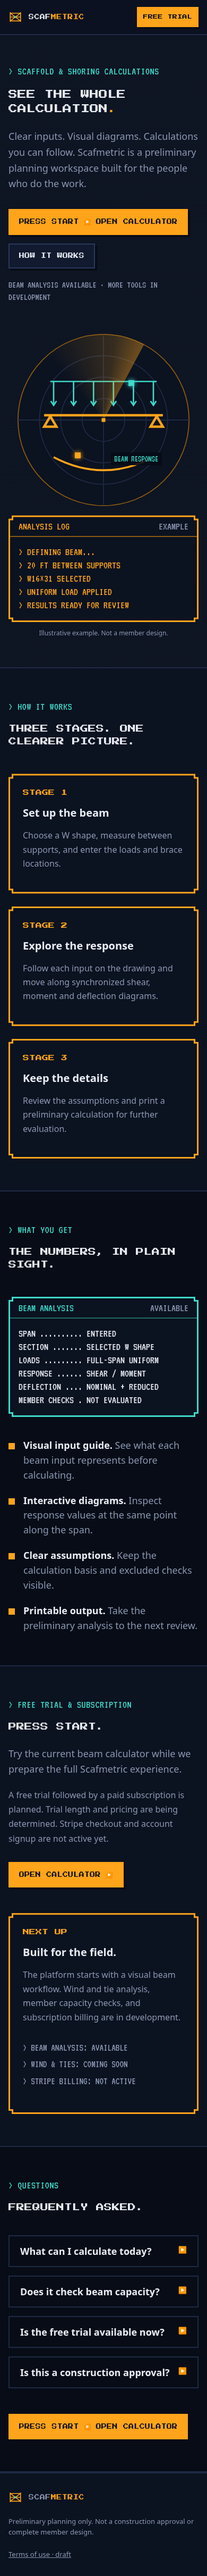
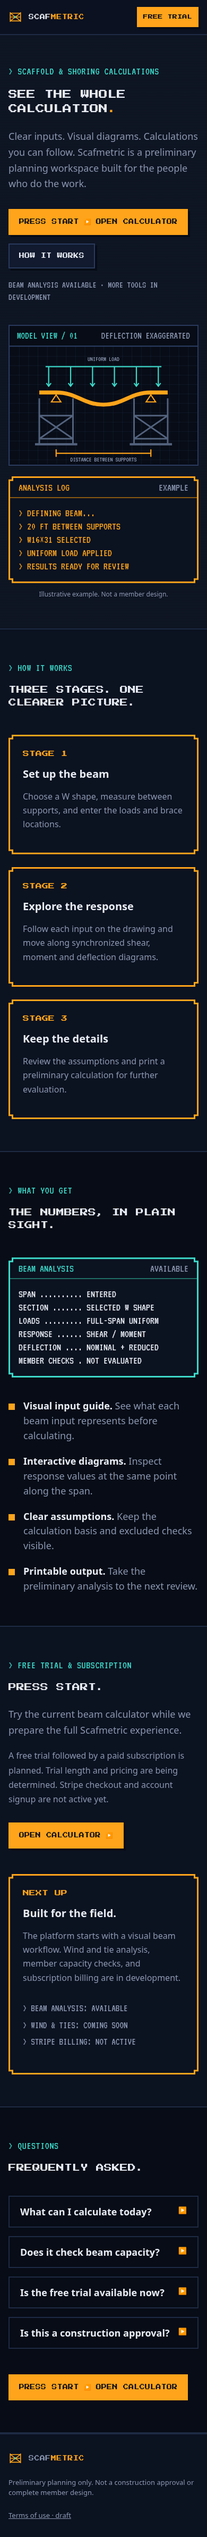
Replace radar hero with bending beam illustration

diff --git a/landing.css b/landing.css
@@ -1,3 +1,2 @@
 @font-face{font-family:PressStart;src:url('/public/fonts/press-start-2p.woff2') format('woff2');font-weight:400;font-display:swap}@font-face{font-family:VT323;src:url('/public/fonts/vt323.woff2') format('woff2');font-weight:400;font-display:swap}
-:root{color-scheme:dark;--bg:#0B1220;--deep:#070C16;--panel:#111A2E;--border:#1E2A44;--edge:#2A3A5E;--orange:#FFA41B;--aqua:#3DD9C9;--text:#E8ECF4;--muted:#8A96B0}*{box-sizing:border-box}html{scroll-behavior:smooth}body{margin:0;background:var(--bg);color:var(--text);font-family:Inter,system-ui,sans-serif;-webkit-font-smoothing:antialiased}a{color:inherit}::selection{background:var(--orange);color:var(--deep)}:focus-visible{outline:2px solid var(--aqua);outline-offset:4px}.container{max-width:1200px;padding:0 16px;margin:0 auto}.site-header{position:sticky;top:0;z-index:10;border-bottom:2px solid var(--border);background:rgba(11,18,32,.96);backdrop-filter:blur(8px)}.header-inner{height:64px;display:flex;align-items:center;justify-content:space-between;gap:16px}.logo{display:inline-flex;align-items:center;gap:12px;text-decoration:none;white-space:nowrap;font:11px/1.4 PressStart,monospace;letter-spacing:.05em}.logo svg{width:28px;height:28px}.logo span span,.accent{color:var(--orange)}nav{display:flex;gap:32px}nav a{font:20px/1 VT323,monospace;text-transform:uppercase;color:var(--muted);text-decoration:none}nav a:hover{color:var(--text)}.button{display:inline-flex;align-items:center;justify-content:center;gap:9px;padding:16px 20px;font:10px/1.5 PressStart,monospace;text-transform:uppercase;letter-spacing:.025em;text-decoration:none;box-shadow:4px 4px 0 var(--deep);transition:transform .15s,background-color .15s}.button:hover{transform:translateY(-2px)}.primary{background:var(--orange);color:var(--deep)}.primary:hover{background:#FFC266}.secondary{background:var(--panel);color:var(--text);box-shadow:inset 0 0 0 2px var(--edge),4px 4px 0 var(--deep)}.header-button{padding:12px 16px;font-size:10px}.arrow{font-family:Arial,sans-serif;font-size:11px}.hero,.section{border-bottom:2px solid var(--border)}.scanlines{background-image:repeating-linear-gradient(to bottom,rgba(255,255,255,.035) 0,rgba(255,255,255,.035) 1px,transparent 1px,transparent 3px)}.hero-grid{display:grid;grid-template-columns:1.05fr .95fr;align-items:center;gap:48px;padding-top:80px;padding-bottom:80px}.eyebrow{font:20px/1.2 VT323,monospace;color:var(--aqua);text-transform:uppercase;letter-spacing:.03em;margin:0 0 18px}h1,h2{font-family:PressStart,monospace;font-weight:400;line-height:1.6;margin:0}h1{font-size:clamp(17px,2.7vw,34px)}h2{font-size:clamp(15px,2.2vw,23px);max-width:850px}h3{font-size:20px;line-height:1.3;margin:16px 0 12px}.lead{font-size:18px;line-height:1.65;color:var(--muted);max-width:575px;margin:24px 0 0}.actions{display:flex;flex-wrap:wrap;gap:16px;margin-top:32px}.hero-note{font:20px/1.3 VT323,monospace;color:var(--muted);margin:20px 0 0}.hero-visual{width:100%;max-width:460px;margin:auto}.scope{position:relative;aspect-ratio:1;width:100%}.scope>svg{position:absolute;inset:0;width:100%;height:100%}.scope-sweep{position:absolute;inset:5%;border-radius:50%;background:conic-gradient(from 0deg,transparent 0deg,transparent 290deg,rgba(255,164,27,.18) 340deg,rgba(255,164,27,.4) 360deg);animation:spin 7s linear infinite;pointer-events:none}.scope-label{position:absolute;top:67%;left:54%;padding:4px 6px;background:rgba(7,12,22,.9);font:16px/1 VT323,monospace;color:var(--aqua)}.blip{position:absolute;width:11px;height:11px;background:var(--aqua);box-shadow:0 0 8px var(--aqua)}.b1{left:63%;top:29%}.b2{left:35%;top:67%;background:var(--orange);box-shadow:0 0 8px var(--orange)}@keyframes spin{to{transform:rotate(360deg)}}.frame{background:var(--orange);padding:3px;clip-path:polygon(0 6px,6px 6px,6px 0,calc(100% - 6px) 0,calc(100% - 6px) 6px,100% 6px,100% calc(100% - 6px),calc(100% - 6px) calc(100% - 6px),calc(100% - 6px) 100%,6px 100%,6px calc(100% - 6px),0 calc(100% - 6px))}.frame-inner{height:100%;background:var(--bg);clip-path:polygon(0 6px,6px 6px,6px 0,calc(100% - 6px) 0,calc(100% - 6px) 6px,100% 6px,100% calc(100% - 6px),calc(100% - 6px) calc(100% - 6px),calc(100% - 6px) 100%,6px 100%,6px calc(100% - 6px),0 calc(100% - 6px))}.frame-title{display:flex;justify-content:space-between;gap:12px;border-bottom:2px solid #8a5a12;color:var(--orange);padding:8px 16px;font:20px/1 VT323,monospace;text-transform:uppercase}.frame-title span:last-child{color:var(--muted)}.terminal{font:22px/1.25 VT323,monospace;color:var(--orange);padding:16px}.terminal.white{color:var(--text)}.terminal.small{font-size:19px;padding:10px 0 0}.cursor{animation:blink 1s steps(1,end) infinite}@keyframes blink{50%{opacity:0}}.caption{text-align:center;color:var(--muted);font-size:12px;margin:12px 0 0}.section{padding:96px 0;scroll-margin-top:64px}.alt{background:var(--deep)}.three-grid{display:grid;grid-template-columns:repeat(3,1fr);gap:24px;margin-top:48px}.card{padding:24px}.card p:not(.stage){color:var(--muted);line-height:1.65}.stage{font:12px/1.5 PressStart,monospace;color:var(--orange);margin:0}.tool-grid{display:grid;grid-template-columns:1fr 1fr;gap:40px;margin-top:48px}.cyan{background:var(--aqua)}.cyan-text{color:var(--aqua);border-color:#1F6E66}.benefits{list-style:none;padding:0;margin:0;display:grid;gap:20px}.benefits li{font-size:18px;color:var(--muted);line-height:1.55;padding-left:28px;position:relative}.benefits li:before{content:'';position:absolute;left:0;top:9px;width:12px;height:12px;background:var(--orange)}.benefits strong{color:var(--text)}.trial-grid{display:grid;grid-template-columns:.9fr 1.1fr;gap:48px;align-items:start}.muted{color:var(--muted);line-height:1.7;margin:20px 0 30px}.faq{display:grid;gap:16px;max-width:768px;margin:40px 0 48px}details{background:var(--deep);border:2px solid var(--border)}details[open]{border-color:#1F6E66}summary{display:flex;justify-content:space-between;gap:16px;cursor:pointer;padding:16px 20px;font-size:18px;font-weight:600;list-style:none}summary::-webkit-details-marker{display:none}summary span{color:var(--orange);font-size:13px}details p{padding:0 20px 20px;color:var(--muted);line-height:1.6;margin:0}footer{border-top:2px solid var(--border);padding:32px 0;color:var(--muted);font-size:13px}.footer-inner{display:flex;align-items:center;justify-content:space-between;gap:25px}.footer-inner p{max-width:440px;line-height:1.5}footer a:not(.logo){color:var(--muted)}@media(max-width:900px){.hero-grid{grid-template-columns:1fr;gap:40px;padding-top:56px;padding-bottom:56px}.hero-visual{max-width:460px}.three-grid{grid-template-columns:1fr}.trial-grid{grid-template-columns:1fr}.section{padding:64px 0}}@media(max-width:700px){nav{display:none}.logo{font-size:10px}.logo svg{width:26px;height:26px}.header-button{font-size:9px;padding:12px}.tool-grid{grid-template-columns:1fr}.footer-inner{align-items:flex-start;flex-direction:column;gap:10px}.hero-note{font-size:18px}.terminal{font-size:20px}.section{padding:60px 0}}@media(prefers-reduced-motion:reduce){html{scroll-behavior:auto}.scope-sweep,.cursor{animation:none}}
-.scope{overflow:hidden}
+:root{color-scheme:dark;--bg:#0B1220;--deep:#070C16;--panel:#111A2E;--border:#1E2A44;--edge:#2A3A5E;--orange:#FFA41B;--aqua:#3DD9C9;--text:#E8ECF4;--muted:#8A96B0}*{box-sizing:border-box}html{scroll-behavior:smooth}body{margin:0;background:var(--bg);color:var(--text);font-family:Inter,system-ui,sans-serif;-webkit-font-smoothing:antialiased}a{color:inherit}::selection{background:var(--orange);color:var(--deep)}:focus-visible{outline:2px solid var(--aqua);outline-offset:4px}.container{max-width:1200px;padding:0 16px;margin:0 auto}.site-header{position:sticky;top:0;z-index:10;border-bottom:2px solid var(--border);background:rgba(11,18,32,.96);backdrop-filter:blur(8px)}.header-inner{height:64px;display:flex;align-items:center;justify-content:space-between;gap:16px}.logo{display:inline-flex;align-items:center;gap:12px;text-decoration:none;white-space:nowrap;font:11px/1.4 PressStart,monospace;letter-spacing:.05em}.logo svg{width:28px;height:28px}.logo span span,.accent{color:var(--orange)}nav{display:flex;gap:32px}nav a{font:20px/1 VT323,monospace;text-transform:uppercase;color:var(--muted);text-decoration:none}nav a:hover{color:var(--text)}.button{display:inline-flex;align-items:center;justify-content:center;gap:9px;padding:16px 20px;font:10px/1.5 PressStart,monospace;text-transform:uppercase;letter-spacing:.025em;text-decoration:none;box-shadow:4px 4px 0 var(--deep);transition:transform .15s,background-color .15s}.button:hover{transform:translateY(-2px)}.primary{background:var(--orange);color:var(--deep)}.primary:hover{background:#FFC266}.secondary{background:var(--panel);color:var(--text);box-shadow:inset 0 0 0 2px var(--edge),4px 4px 0 var(--deep)}.header-button{padding:12px 16px;font-size:10px}.arrow{font-family:Arial,sans-serif;font-size:11px}.hero,.section{border-bottom:2px solid var(--border)}.scanlines{background-image:repeating-linear-gradient(to bottom,rgba(255,255,255,.035) 0,rgba(255,255,255,.035) 1px,transparent 1px,transparent 3px)}.hero-grid{display:grid;grid-template-columns:1.05fr .95fr;align-items:center;gap:48px;padding-top:80px;padding-bottom:80px}.eyebrow{font:20px/1.2 VT323,monospace;color:var(--aqua);text-transform:uppercase;letter-spacing:.03em;margin:0 0 18px}h1,h2{font-family:PressStart,monospace;font-weight:400;line-height:1.6;margin:0}h1{font-size:clamp(17px,2.7vw,34px)}h2{font-size:clamp(15px,2.2vw,23px);max-width:850px}h3{font-size:20px;line-height:1.3;margin:16px 0 12px}.lead{font-size:18px;line-height:1.65;color:var(--muted);max-width:575px;margin:24px 0 0}.actions{display:flex;flex-wrap:wrap;gap:16px;margin-top:32px}.hero-note{font:20px/1.3 VT323,monospace;color:var(--muted);margin:20px 0 0}.hero-visual{width:100%;max-width:460px;margin:auto}.beam-illustration{border:2px solid var(--edge);background:var(--deep);margin-bottom:20px}.illustration-heading{display:flex;justify-content:space-between;gap:8px;border-bottom:2px solid var(--edge);padding:9px 14px;font:19px/1 VT323,monospace;color:var(--aqua)}.illustration-heading span:last-child{color:var(--muted)}.beam-illustration svg{display:block;width:100%;height:auto}.frame{background:var(--orange);padding:3px;clip-path:polygon(0 6px,6px 6px,6px 0,calc(100% - 6px) 0,calc(100% - 6px) 6px,100% 6px,100% calc(100% - 6px),calc(100% - 6px) calc(100% - 6px),calc(100% - 6px) 100%,6px 100%,6px calc(100% - 6px),0 calc(100% - 6px))}.frame-inner{height:100%;background:var(--bg);clip-path:polygon(0 6px,6px 6px,6px 0,calc(100% - 6px) 0,calc(100% - 6px) 6px,100% 6px,100% calc(100% - 6px),calc(100% - 6px) calc(100% - 6px),calc(100% - 6px) 100%,6px 100%,6px calc(100% - 6px),0 calc(100% - 6px))}.frame-title{display:flex;justify-content:space-between;gap:12px;border-bottom:2px solid #8a5a12;color:var(--orange);padding:8px 16px;font:20px/1 VT323,monospace;text-transform:uppercase}.frame-title span:last-child{color:var(--muted)}.terminal{font:22px/1.25 VT323,monospace;color:var(--orange);padding:16px}.terminal.white{color:var(--text)}.terminal.small{font-size:19px;padding:10px 0 0}.cursor{animation:blink 1s steps(1,end) infinite}@keyframes blink{50%{opacity:0}}.caption{text-align:center;color:var(--muted);font-size:12px;margin:12px 0 0}.section{padding:96px 0;scroll-margin-top:64px}.alt{background:var(--deep)}.three-grid{display:grid;grid-template-columns:repeat(3,1fr);gap:24px;margin-top:48px}.card{padding:24px}.card p:not(.stage){color:var(--muted);line-height:1.65}.stage{font:12px/1.5 PressStart,monospace;color:var(--orange);margin:0}.tool-grid{display:grid;grid-template-columns:1fr 1fr;gap:40px;margin-top:48px}.cyan{background:var(--aqua)}.cyan-text{color:var(--aqua);border-color:#1F6E66}.benefits{list-style:none;padding:0;margin:0;display:grid;gap:20px}.benefits li{font-size:18px;color:var(--muted);line-height:1.55;padding-left:28px;position:relative}.benefits li:before{content:'';position:absolute;left:0;top:9px;width:12px;height:12px;background:var(--orange)}.benefits strong{color:var(--text)}.trial-grid{display:grid;grid-template-columns:.9fr 1.1fr;gap:48px;align-items:start}.muted{color:var(--muted);line-height:1.7;margin:20px 0 30px}.faq{display:grid;gap:16px;max-width:768px;margin:40px 0 48px}details{background:var(--deep);border:2px solid var(--border)}details[open]{border-color:#1F6E66}summary{display:flex;justify-content:space-between;gap:16px;cursor:pointer;padding:16px 20px;font-size:18px;font-weight:600;list-style:none}summary::-webkit-details-marker{display:none}summary span{color:var(--orange);font-size:13px}details p{padding:0 20px 20px;color:var(--muted);line-height:1.6;margin:0}footer{border-top:2px solid var(--border);padding:32px 0;color:var(--muted);font-size:13px}.footer-inner{display:flex;align-items:center;justify-content:space-between;gap:25px}.footer-inner p{max-width:440px;line-height:1.5}footer a:not(.logo){color:var(--muted)}@media(max-width:900px){.hero-grid{grid-template-columns:1fr;gap:40px;padding-top:56px;padding-bottom:56px}.hero-visual{max-width:460px}.three-grid{grid-template-columns:1fr}.trial-grid{grid-template-columns:1fr}.section{padding:64px 0}}@media(max-width:700px){nav{display:none}.logo{font-size:10px}.logo svg{width:26px;height:26px}.header-button{font-size:9px;padding:12px}.tool-grid{grid-template-columns:1fr}.footer-inner{align-items:flex-start;flex-direction:column;gap:10px}.hero-note{font-size:18px}.terminal{font-size:20px}.section{padding:60px 0}}@media(prefers-reduced-motion:reduce){html{scroll-behavior:auto}.cursor{animation:none}}

diff --git a/index.html b/index.html
@@ -13,7 +13,16 @@
 <main>
 <section class="hero scanlines"><div class="container hero-grid">
 <div><p class="eyebrow">&gt; Scaffold &amp; shoring calculations</p><h1>SEE THE WHOLE<br>CALCULATION<span class="accent">.</span></h1><p class="lead">Clear inputs. Visual diagrams. Calculations you can follow. Scafmetric is a preliminary planning workspace built for the people who do the work.</p><div class="actions"><a class="button primary" href="calculator.html">Press start <span class="arrow">▶</span> open calculator</a><a class="button secondary" href="#how">How it works</a></div><p class="hero-note">BEAM ANALYSIS AVAILABLE · MORE TOOLS IN DEVELOPMENT</p></div>
-<div class="hero-visual"><div class="scope" aria-label="Illustrative beam and scaffold graphic, not to scale" role="img"><div class="scope-grid"></div><svg viewBox="0 0 400 400" aria-hidden="true"><circle cx="200" cy="200" r="180" fill="#0B1220" stroke="#8A5A12" stroke-width="2"/><circle cx="200" cy="200" r="135" fill="none" stroke="#1E2A44" stroke-width="2"/><circle cx="200" cy="200" r="90" fill="none" stroke="#1E2A44" stroke-width="2"/><circle cx="200" cy="200" r="45" fill="none" stroke="#1E2A44" stroke-width="2"/><path d="M20 200h360M200 20v360" stroke="#1E2A44" stroke-width="2"/><path d="M75 190H325M88 192l-13 22h26zM312 192l13 22h-26z" fill="none" stroke="#FFA41B" stroke-width="5"/><path d="M95 119v50m42-50v50m42-50v50m42-50v50m42-50v50m42-50v50M88 119h224" fill="none" stroke="#3DD9C9" stroke-width="3"/><path d="M89 160l6 9 6-9m30 0 6 9 6-9m30 0 6 9 6-9m30 0 6 9 6-9m30 0 6 9 6-9m30 0 6 9 6-9" fill="none" stroke="#3DD9C9" stroke-width="3"/><path d="M95 278 Q200 333 305 278" fill="none" stroke="#FFA41B" stroke-width="4"/><rect x="196" y="196" width="8" height="8" fill="#FFA41B"/></svg><div class="scope-sweep"></div><div class="blip b1"></div><div class="blip b2"></div><div class="scope-label">BEAM RESPONSE</div></div>
+<div class="hero-visual"><div class="beam-illustration" role="img" aria-label="Illustrative beam bending downward under load between supports. Deflection exaggerated, not a calculated result.">
+<div class="illustration-heading"><span>MODEL VIEW / 01</span><span>DEFLECTION EXAGGERATED</span></div>
+<svg viewBox="0 0 480 300" aria-hidden="true">
+<defs><pattern id="draft-grid" width="24" height="24" patternUnits="userSpaceOnUse"><path d="M24 0H0V24" fill="none" stroke="#1E2A44" stroke-width="1"/></pattern></defs>
+<rect width="480" height="300" fill="url(#draft-grid)"/>
+<g fill="none" stroke="#53627d" stroke-width="4"><path d="M76 132v115M162 132v115M318 132v115M404 132v115M76 176h86M318 176h86M76 235h86M318 235h86M76 176l86 59m0-59-86 59M318 176l86 59m0-59-86 59"/><path d="M65 249h108m134 0h108" stroke-width="6"/></g>
+<g fill="none" stroke="#3DD9C9" stroke-width="3"><path d="M92 51H388M100 51v50m56-50v50m56-50v50m56-50v50m56-50v50m56-50v50"/><path d="m94 93 6 8 6-8m44 0 6 8 6-8m44 0 6 8 6-8m44 0 6 8 6-8m44 0 6 8 6-8m44 0 6 8 6-8"/></g>
+<path d="M76 117H119 C173 117 188 148 240 148 S307 117 361 117 H404" fill="none" stroke="#FFA41B" stroke-width="10"/><g fill="none" stroke="#FFA41B" stroke-width="3"><path d="m119 123-12 18h24zm242 0-12 18h24z"/><path d="M119 262v19m242-19v19M119 272h242m-242-5v10m242-10v10"/></g>
+<g fill="#8A96B0" font-family="VT323,monospace" font-size="17"><text x="240" y="37" text-anchor="middle">UNIFORM LOAD</text><text x="240" y="293" text-anchor="middle">DISTANCE BETWEEN SUPPORTS</text></g>
+</svg></div>
 <div class="frame"><div class="frame-inner"><div class="frame-title"><span>Analysis log</span><span>Example</span></div><div class="terminal">&gt; DEFINING BEAM...<br>&gt; 20 FT BETWEEN SUPPORTS<br>&gt; W16×31 SELECTED<br>&gt; UNIFORM LOAD APPLIED<br>&gt; RESULTS READY FOR REVIEW<span class="cursor">_</span></div></div></div><p class="caption">Illustrative example. Not a member design.</p></div>
 </div></section>
 <section class="section" id="how"><div class="container"><p class="eyebrow">&gt; How it works</p><h2>THREE STAGES. ONE CLEARER PICTURE.</h2><div class="three-grid">
